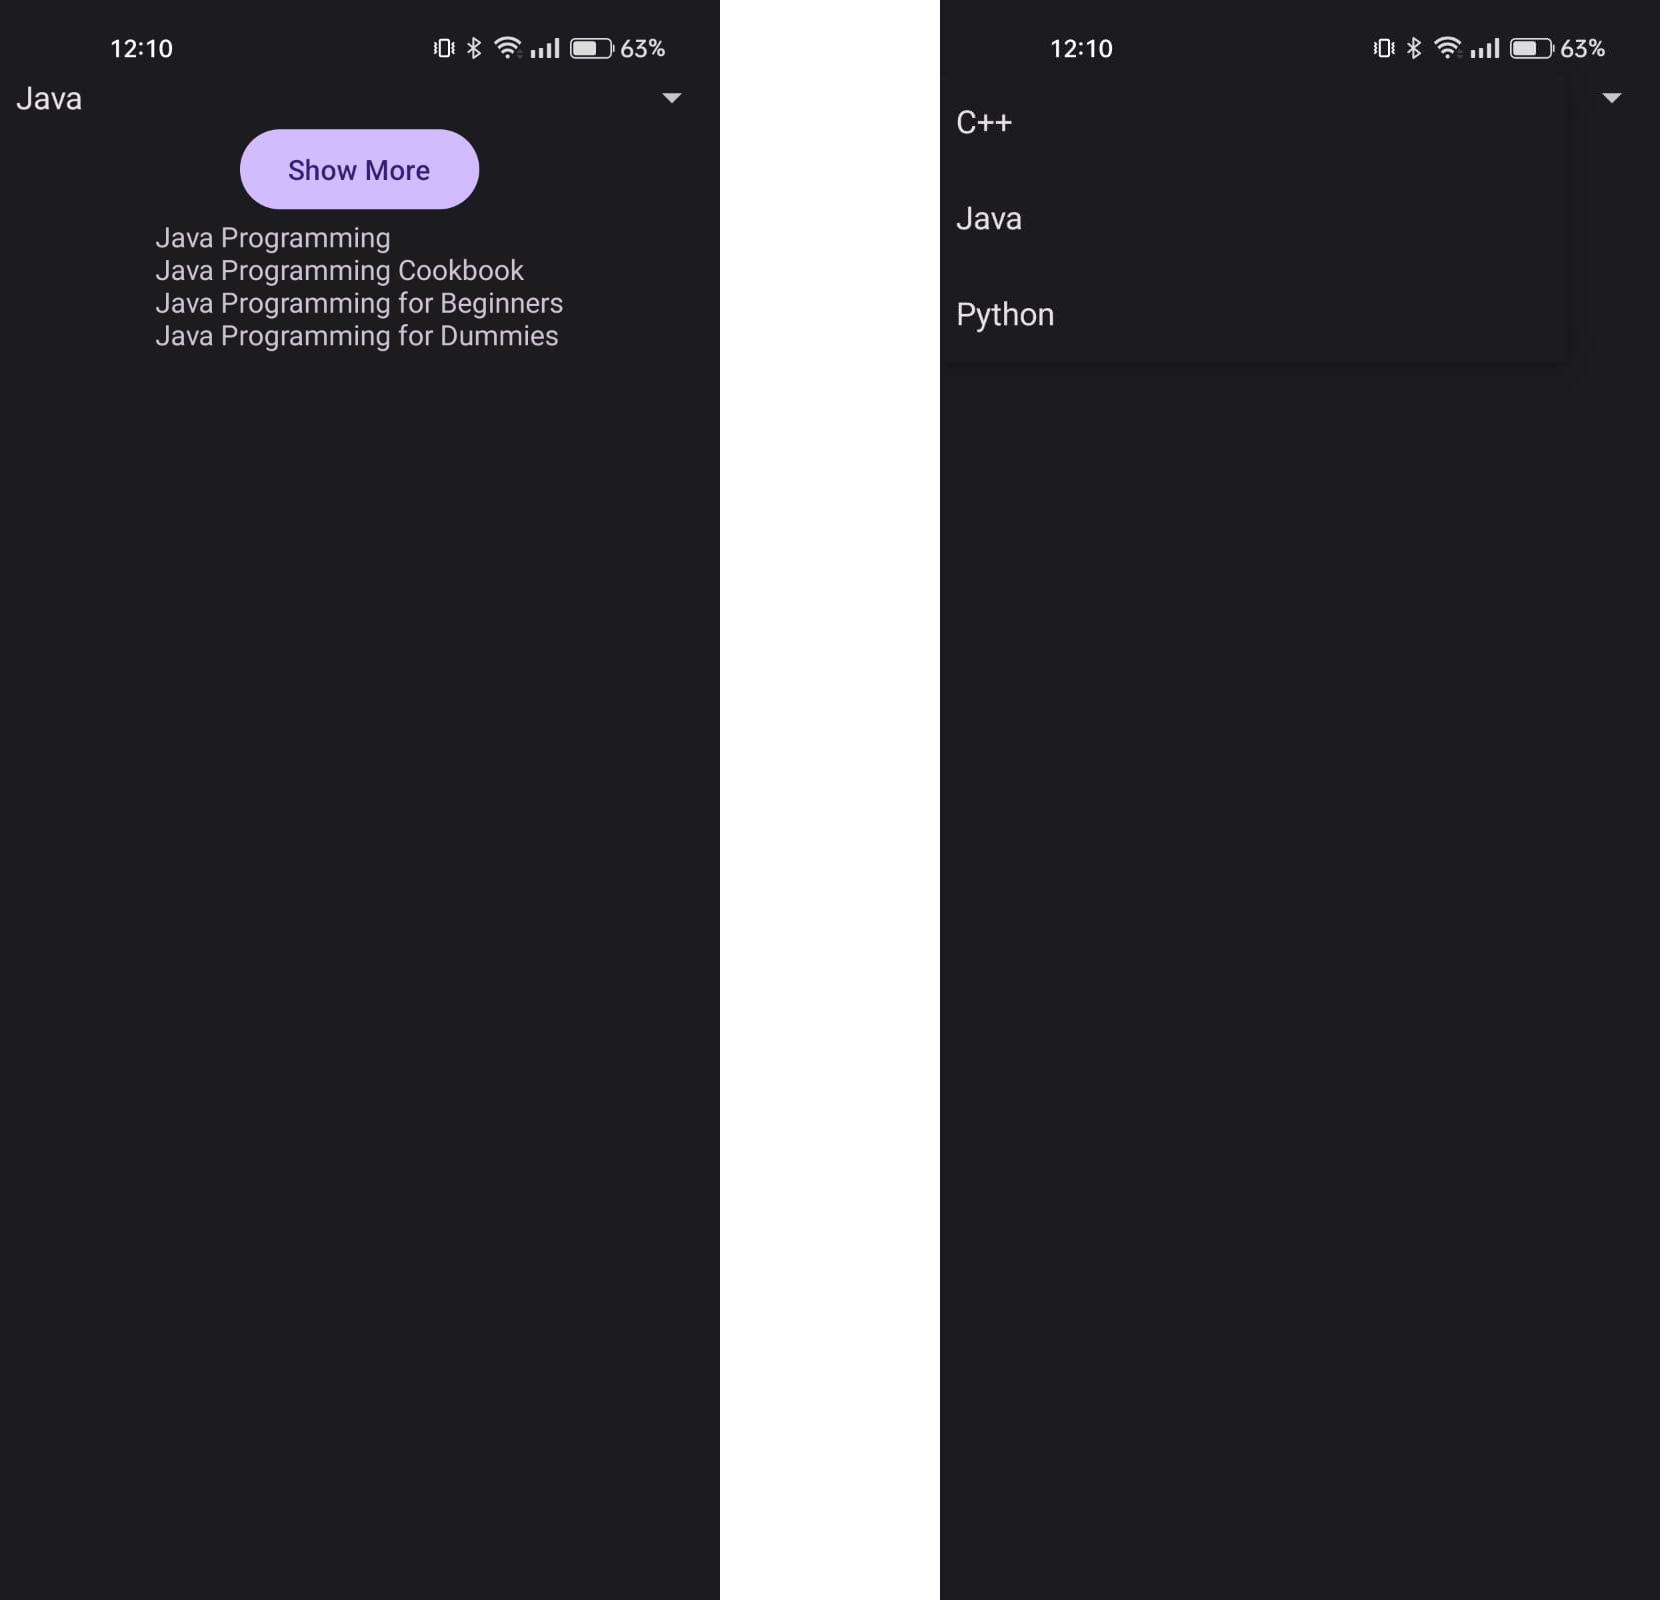
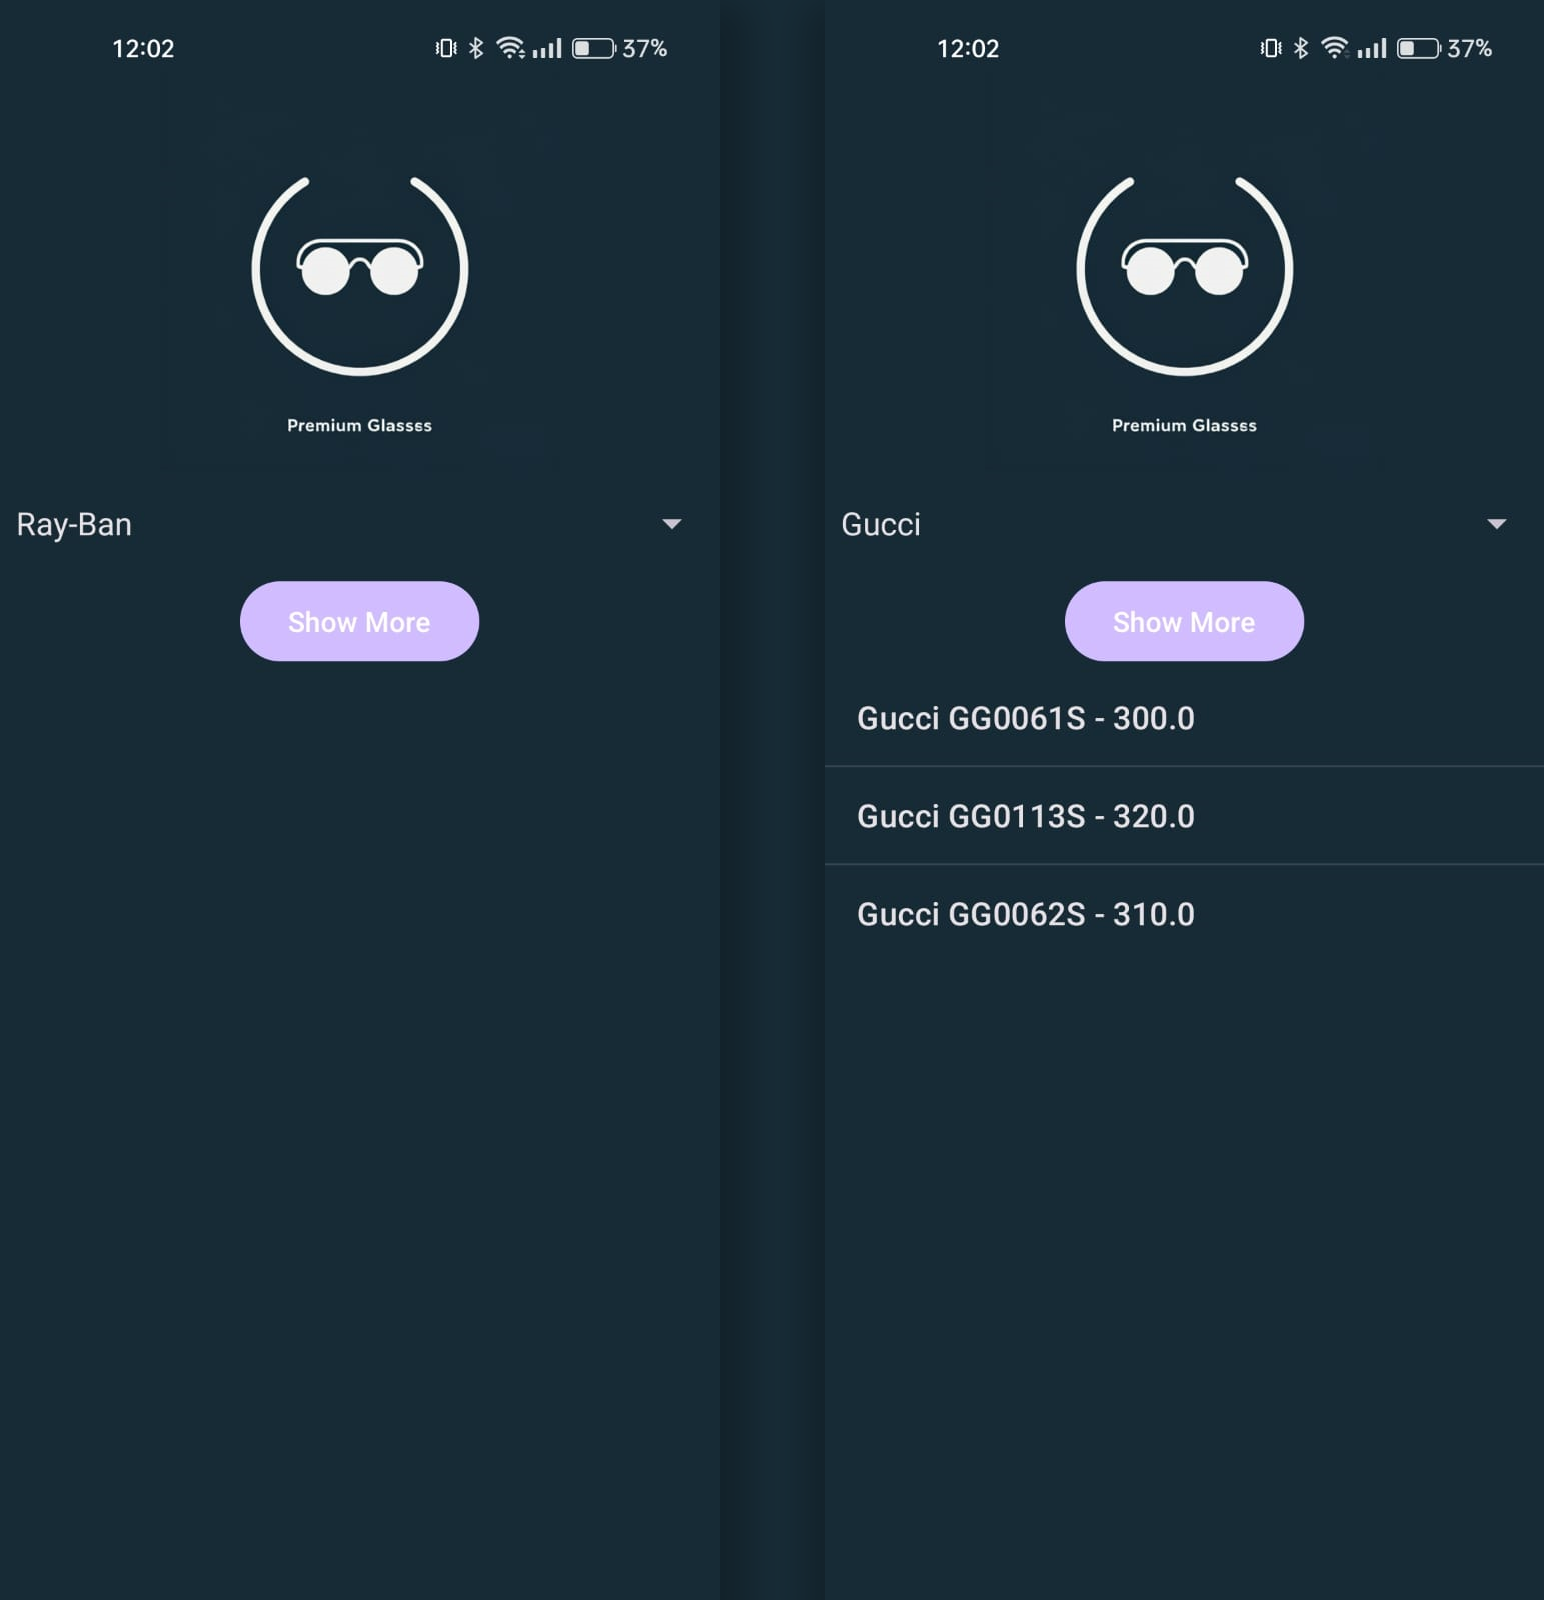
Cooked a New Version with ListView and branding

diff --git a/app/src/main/java/com/example/myapplication/MainActivity.java b/app/src/main/java/com/example/myapplication/MainActivity.java
@@ -4,6 +4,7 @@ import android.os.Bundle;
 import android.widget.Adapter;
 import android.widget.ArrayAdapter;
 import android.widget.Button;
+import android.widget.ListView;
 import android.widget.Spinner;
 import android.widget.TextView;
 
@@ -22,7 +23,7 @@ public class MainActivity extends AppCompatActivity {
 
     Spinner spinner;
 
-    TextView textView;
+    ListView listView;
 
     @Override
     protected void onCreate(Bundle savedInstanceState) {
@@ -35,36 +36,56 @@ public class MainActivity extends AppCompatActivity {
             return insets;
         });
 
-        Topic cpp = new Topic("C++", new ArrayList<>(Arrays.asList("C++ Programming", "C++ Programming Cookbook", "C++ Programming for Beginners", "C++ Programming for Dummies")));
-        Topic java = new Topic("Java", new ArrayList<>(Arrays.asList("Java Programming", "Java Programming Cookbook", "Java Programming for Beginners", "Java Programming for Dummies")));
-        Topic python = new Topic("Python", new ArrayList<>(Arrays.asList("Python Programming", "Python Programming Cookbook", "Python Programming for Beginners", "Python Programming for Dummies")));
-        Topic[] topics = {cpp, java, python};
+        ArrayList<Brands> brands = initBrands();
 
         // Inject topics into spinner
         spinner = findViewById(R.id.spinner);
         ArrayAdapter<String> adapter = new ArrayAdapter<>(this, android.R.layout.simple_spinner_item);
-        for (Topic topic : topics) {
-            adapter.add(topic.getName());
+        for (Brands brand : brands) {
+            adapter.add(brand.getName());
         }
         adapter.setDropDownViewResource(android.R.layout.simple_spinner_dropdown_item);
         spinner.setAdapter(adapter);
 
         button = findViewById(R.id.button);
-        textView = findViewById(R.id.textView);
+        listView = findViewById(R.id.listView);
         button.setOnClickListener(v -> {
             String text = spinner.getSelectedItem().toString();
-            String books = "";
-            // Get books for selected topic
-            for (Topic topic : topics) {
-                if (topic.getName().equals(text)) {
-                    // Join books with newline
-                    books = String.join("\n", topic.getBookList());
-                    break;
+            for (Brands brand : brands) {
+                if (brand.getName().equals(text)) {
+                    ArrayAdapter<Glasses> glassesAdapter = new ArrayAdapter<>(this, android.R.layout.simple_list_item_1, brand.getGlasses());
+                    listView.setAdapter(glassesAdapter);
                 }
             }
-            textView.setText(books);
         });
     }
 
+    public ArrayList<Brands> initBrands() {
+        ArrayList<Glasses> rayBanGlasses = new ArrayList<>(Arrays.asList(
+            new Glasses("Ray-Ban Aviator", 150.0),
+            new Glasses("Ray-Ban Wayfarer", 120.0),
+            new Glasses("Ray-Ban Clubmaster", 130.0)
+        ));
+
+        ArrayList<Glasses> oakleyGlasses = new ArrayList<>(Arrays.asList(
+            new Glasses("Oakley Holbrook", 160.0),
+            new Glasses("Oakley Frogskins", 140.0),
+            new Glasses("Oakley Sutro", 180.0)
+        ));
+
+        ArrayList<Glasses> gucciGlasses = new ArrayList<>(Arrays.asList(
+            new Glasses("Gucci GG0061S", 300.0),
+            new Glasses("Gucci GG0113S", 320.0),
+            new Glasses("Gucci GG0062S", 310.0)
+        ));
+
+        ArrayList<Brands> brands = new ArrayList<>(Arrays.asList(
+            new Brands("Ray-Ban", rayBanGlasses),
+            new Brands("Oakley", oakleyGlasses),
+            new Brands("Gucci", gucciGlasses)
+        ));
+
+        return brands;
+    }
 
 }

diff --git a/app/src/main/java/com/example/myapplication/Brands.java b/app/src/main/java/com/example/myapplication/Brands.java
@@ -1,0 +1,32 @@
+package com.example.myapplication;
+
+import java.util.ArrayList;
+
+public class Brands {
+
+    private String Name;
+
+    private ArrayList<Glasses> glasses;
+
+    public Brands(String name, ArrayList<Glasses> glasses) {
+        Name = name;
+        this.glasses = glasses;
+    }
+
+    public String getName() {
+        return Name;
+    }
+
+    public void setName(String name) {
+        Name = name;
+    }
+
+    public ArrayList<Glasses> getGlasses() {
+        return glasses;
+    }
+
+    public void setGlasses(ArrayList<Glasses> glasses) {
+        this.glasses = glasses;
+    }
+
+}

diff --git a/app/src/main/java/com/example/myapplication/Glasses.java b/app/src/main/java/com/example/myapplication/Glasses.java
@@ -1,0 +1,33 @@
+package com.example.myapplication;
+
+public class Glasses {
+    private String Name;
+    private double price;
+
+    public Glasses(String name, double price) {
+        Name = name;
+        this.price = price;
+    }
+
+    public String getName() {
+        return Name;
+    }
+
+    public void setName(String name) {
+        Name = name;
+    }
+
+    public double getPrice() {
+        return price;
+    }
+
+    public void setPrice(double price) {
+        this.price = price;
+    }
+
+    @Override
+    public String toString() {
+        return Name + " - " + price;
+    }
+
+}

diff --git a/README.md b/README.md
@@ -6,15 +6,17 @@ This is a simple Android application demonstrating the use of the Spinner widget
 
 ## Features
 
-- Displays a list of programming topics in a Spinner.
-- Shows a list of books related to the selected topic when a button is clicked.
+- Displays a list of brands in a Spinner.
+- Shows a list of glasses related to the selected brand when a button is clicked.
 
 ## Project Structure
 
 - `app/src/main/AndroidManifest.xml`: Contains the application manifest.
-- `app/src/main/java/com/example/myapplication/Topic.java`: Defines the `Topic` class.
+- `app/src/main/java/com/example/myapplication/Brands.java`: Defines the `Brands` class.
+- `app/src/main/java/com/example/myapplication/Glasses.java`: Defines the `Glasses` class.
 - `app/src/main/java/com/example/myapplication/MainActivity.java`: Contains the main activity logic.
 - `app/src/main/res/layout/activity_main.xml`: Defines the layout for the main activity.
+- `app/src/main/res/values/styles.xml`: Contains the custom styles used in the application.
 
 ## How to Run
 
@@ -27,8 +29,8 @@ This is a simple Android application demonstrating the use of the Spinner widget
 
 ## Usage
 
-1. Select a programming topic from the Spinner.
-2. Click the "Show More" button to display a list of books related to the selected topic.
+1. Select a brand from the Spinner.
+2. Click the "Show More" button to display a list of glasses related to the selected brand.
 
 ## Dependencies
 
